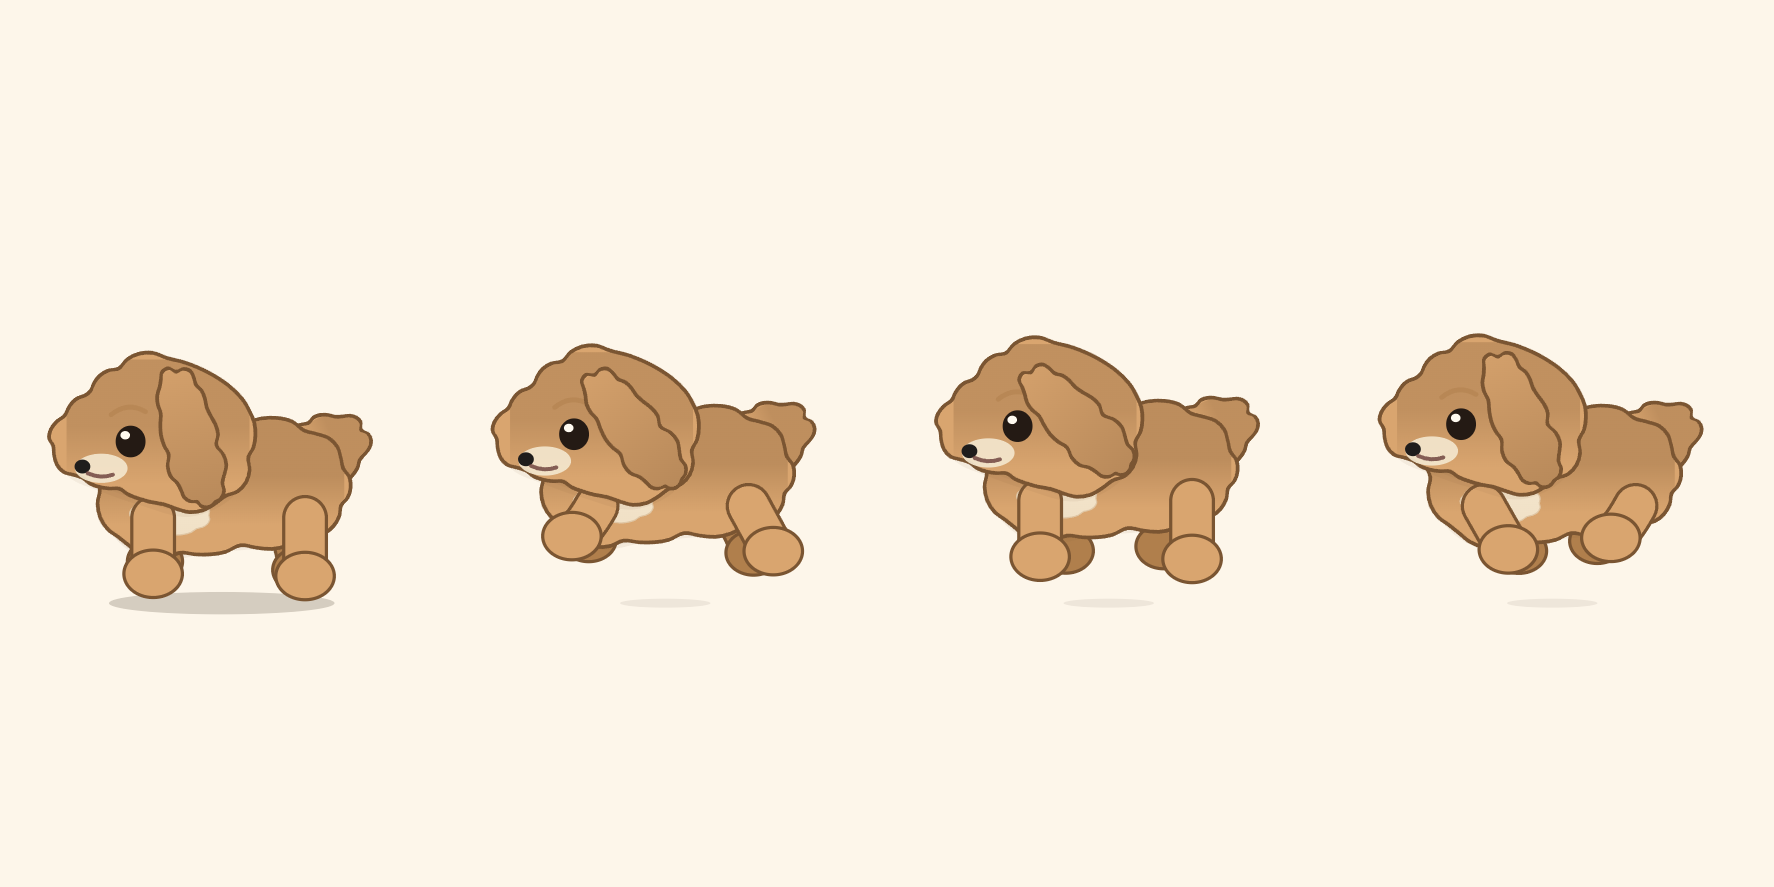
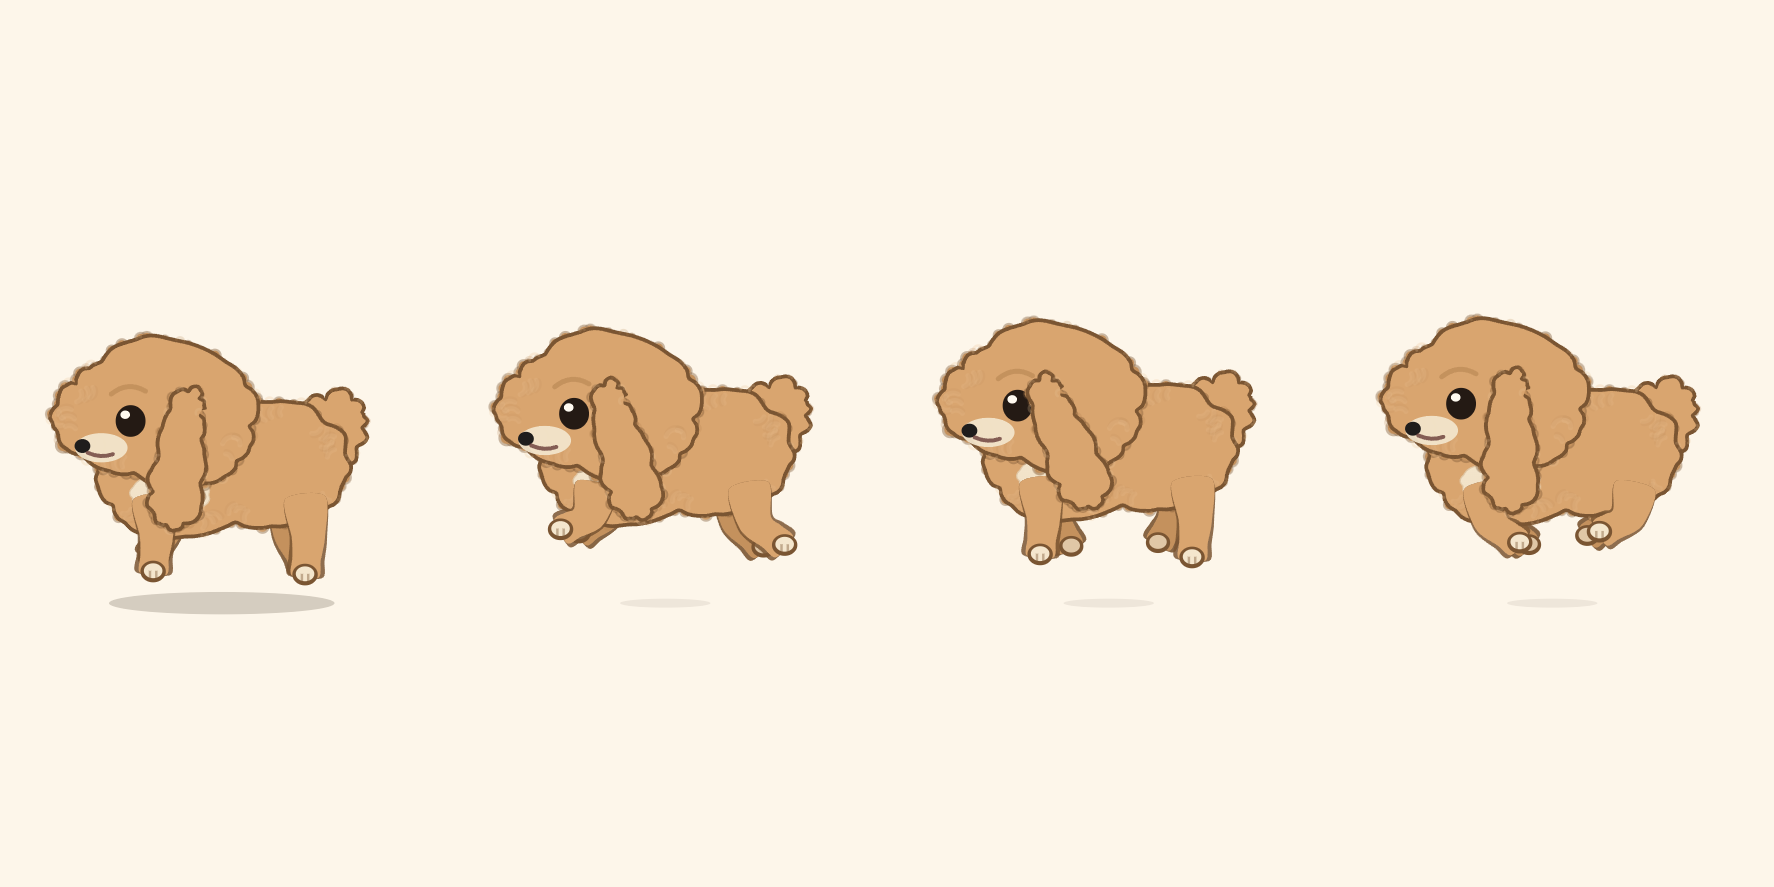
Batch 2: the ear a breed actually has
The Shiba came back wearing a spaniel's hanging lobe, which is the 'all dogs
matter' failure in one picture: `breed.ear` has been `prick` | `floppy` | `semi`
since stage 1 and dog/draw.js's EAR_STYLE table has honoured it since stage 1
too. The profile read none of it.

Two geometries now, chosen off the same declarative capability so a breed cannot
have two answers: a DROP ear hanging from behind the eye with its bottom past the
jaw, and an ERECT ear standing on the crown (`y` negative, which is the whole
difference). Both are furred parts, so both get the coat.

The prick ear took two goes: at `x 0.02` it stood over the eye and read as a horn
growing out of his forehead. It belongs on the back of the skull, tipped forward
the way a Shiba's is.

All three breeds rendered and each is identifiably itself: the Shiba smooth with
prick ears and a cream muzzle, the Schnoodle wiry with a drop ear, the Cockapoo
curly and apricot with the long spaniel ear its own `earH` asks for.

diff --git a/src/dog/side.js b/src/dog/side.js
@@ -103,6 +103,16 @@ const SHAPE = {
     [0.74, 0.58], [0.46, 0.92], [-0.10, 1.00], [-0.62, 0.78],
     [-0.80, 0.24], [-0.72, -0.34], [-0.56, -0.78],
   ],
+  /* AN ERECT EAR, for a breed that has them. The Shiba came back wearing a
+     spaniel's hanging lobe, which is the "all dogs matter" failure in one
+     picture: `breed.ear` is `prick`, `floppy` or `semi` and the frontal renderer
+     has honoured that from stage 1. A prick ear is narrow at the tip, widens to
+     the base, and stands ON the crown rather than hanging beside the jaw. */
+  earUp: [
+    [0.02, -1.00], [0.34, -0.52], [0.56, 0.10], [0.60, 0.66],
+    [0.20, 1.00], [-0.34, 0.94], [-0.62, 0.48], [-0.52, -0.20],
+    [-0.24, -0.72],
+  ],
   /* the tail: a plume, fat at the tip */
   tail: [
     [-0.90, 0.10], [-0.52, -0.52], [0.06, -0.82], [0.62, -0.66],
@@ -122,6 +132,11 @@ export function createSideDog(rig) {
   const P = breed.proportions;
   const pal = rig.pal;
   const fur = FUR_TYPE[breed.fur.type] || FUR_TYPE.short;
+  /* WHICH EAR THIS DOG HAS. `prick` stands on the crown; `floppy` and `semi`
+     hang beside the jaw. Read off `breed.ear`, the same declarative capability
+     dog/draw.js's EAR_STYLE table reads, so a breed cannot have two answers. */
+  const prick = (breed.ear || 'prick') === 'prick';
+  const EAR = prick ? S.ear.prick : S.ear.drop;
   const tuft = fur.tuft || { cycles: 12, amp: 3, pow: 0.7 };
 
   /* ---- THE PROFILE'S OWN PROPORTIONS -------------------------------------
@@ -132,8 +147,8 @@ export function createSideDog(rig) {
     bodyHH: P.bodyH * S.body.deep,
     headHW: P.headW * P.headScale * S.head.w,
     headHH: P.headH * P.headScale * S.head.h,
-    earHW: P.earW * S.ear.w,
-    earHH: P.earH * S.ear.h,
+    earHW: P.earW * EAR.w,
+    earHH: P.earH * EAR.h,
     tailHW: P.bodyW * S.tail.w * (P.tailLen || 1),
     tailHH: P.bodyH * S.tail.h,
     legLen: P.legLen * S.leg.len,
@@ -188,7 +203,7 @@ export function createSideDog(rig) {
        thing in the first two renders, and the reason is that an ear is mostly
        COAT EDGE — it is nearly all silhouette, so it needs the fringe more than
        the body does. */
-    ear: partOf(poly(SHAPE.ear, g.earHW, g.earHH),
+    ear: partOf(poly(prick ? SHAPE.earUp : SHAPE.ear, g.earHW, g.earHH),
       { phase: 1.07, tuftK: T.headScale, refH: g.earHH, salt: 5.9 }),
     tail: partOf(poly(SHAPE.tail, g.tailHW, g.tailHH),
       { phase: 4.11, tuftK: T.bodyScale, refH: g.tailHH, salt: 8.2 }),
@@ -336,8 +351,8 @@ export function createSideDog(rig) {
     /* the head over the shoulders, the face, then the ear over all of it */
     furred(c, 'head', headX, headY, 0, g.headHH, main, a);
     drawFace(c, headX, headY, a);
-    furred(c, 'ear', headX - g.headHW * S.ear.x, headY + g.headHH * S.ear.y,
-      S.ear.angle + p.ear, g.earHH, main, a);
+    furred(c, 'ear', headX - g.headHW * EAR.x, headY + g.headHH * EAR.y,
+      EAR.angle + p.ear, g.earHH, main, a);
 
     c.restore();
   }

diff --git a/src/state/balance.js b/src/state/balance.js
@@ -2161,7 +2161,16 @@ export const BALANCE = {
        it read as a tongue hanging to his chest. A drop ear is about 60% of head
        height and reasonably broad, and it wants to hang from behind the eye with
        its bottom just past the jaw so its silhouette BREAKS the head's. */
-    ear: { w: 0.52, h: 0.44, x: 0.22, y: 0.44, angle: 0.18 },
+    ear: {
+      /* A DROP EAR hangs from behind the eye with its bottom past the jaw, so
+         its silhouette BREAKS the head's — which is what makes it read as an ear
+         side-on rather than as a pale patch on the cheek. */
+      drop: { w: 0.52, h: 0.44, x: 0.22, y: 0.44, angle: 0.18 },
+      /* AN ERECT EAR stands on the crown: above the head's centre, barely
+         behind it, tipped back a little. Its `y` is NEGATIVE, which is the whole
+         difference — everything else here is the same kind of number. */
+      prick: { w: 0.54, h: 0.46, x: 0.34, y: -0.56, angle: 0.24 },
+    },
     /* the tail read as a SECOND RUMP at 0.30 x 0.46 — a scalloped mass the size
        of his hindquarters, at mid-height. A plume is small, high and behind. */
     tail: { x: 0.88, y: 0.54, w: 0.19, h: 0.26, angle: -1.15 },
